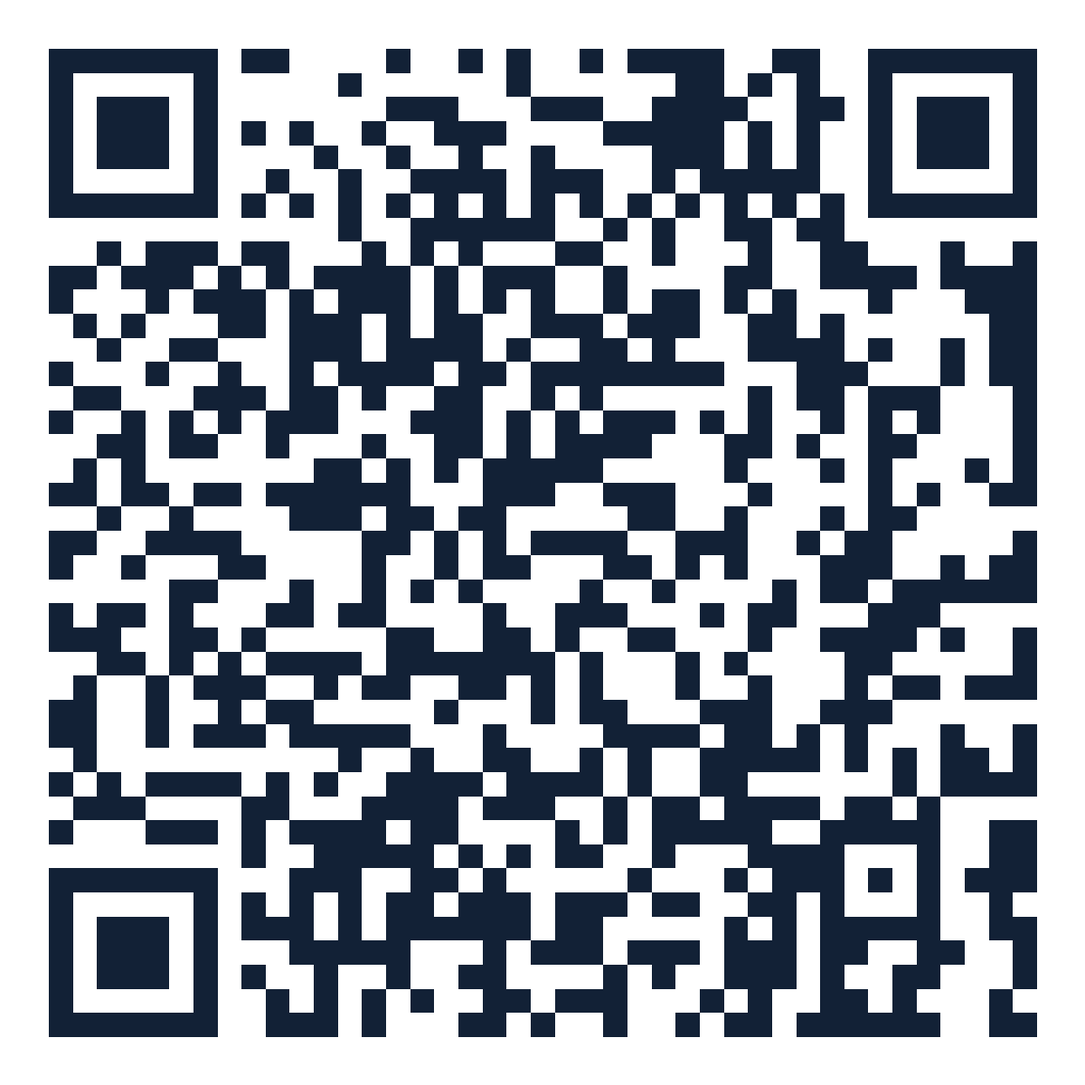
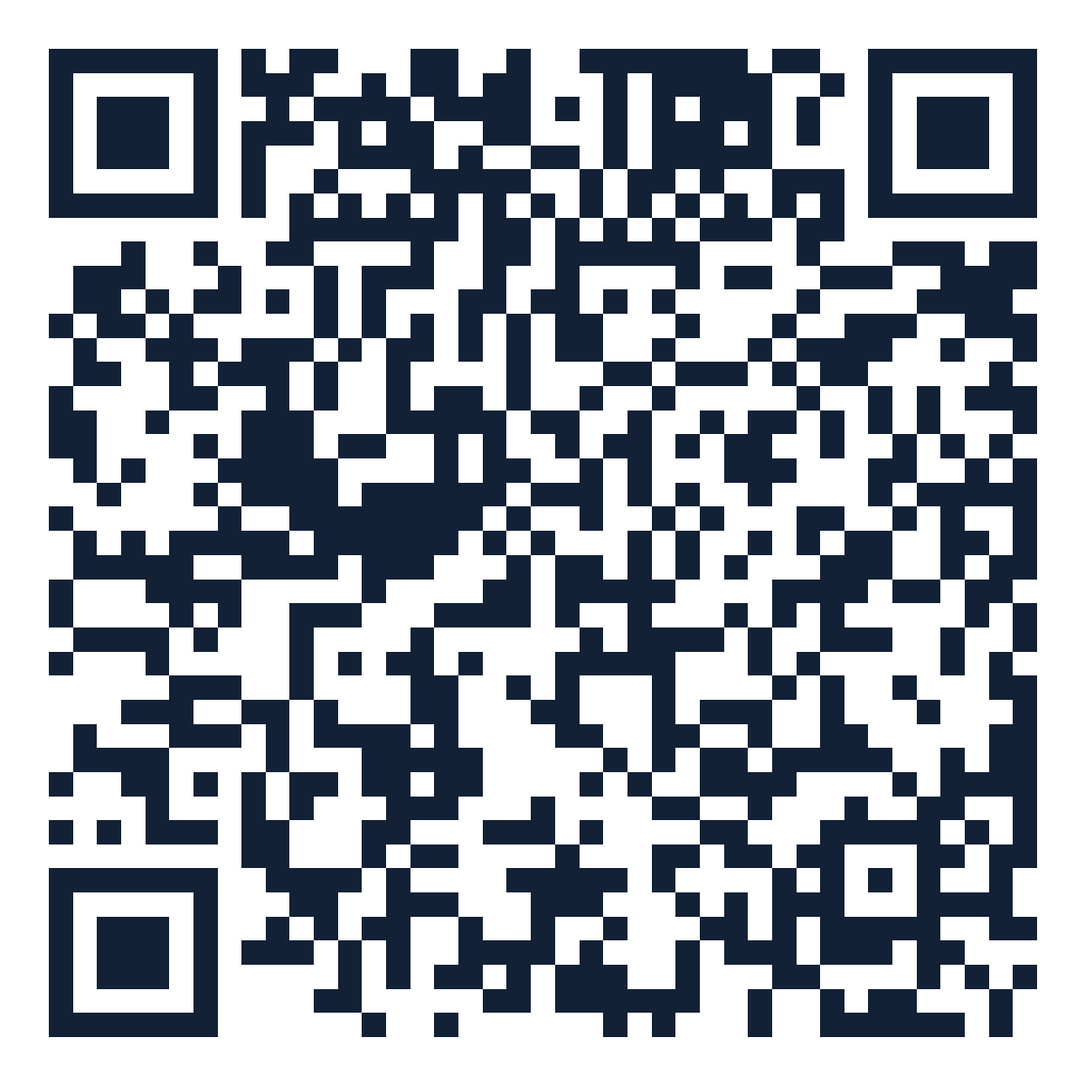
Corner-only build: each corner by its own link, no list, no general menu
A guest at one corner must not see another corner's prices, so the
corners ship as their own site: the root and every non-corner route show
only the logo and the instruction to scan, and the corners list is gone.
QR codes point at libertario-corners.pages.dev.

diff --git a/docs/qr/corners.html b/docs/qr/corners.html
@@ -59,7 +59,7 @@
       <span class="eyebrow">Libertario Coffee Roasters · Carta digital</span>
       <h1>QR de los corners</h1>
     </div>
-    <p class="lead">Un código por corner. Cada uno abre la carta reducida de esa barra en el teléfono del invitado, en español o inglés. Para imprimir, mínimo 3 cm de lado.</p>
+    <p class="lead">Un código por corner. Cada uno abre únicamente la carta de esa barra, con sus precios, en español o inglés. Para imprimir, mínimo 3 cm de lado.</p>
   </header>
 
   <section class="grid" aria-label="Corners">
@@ -69,9 +69,9 @@
           <span class="eyebrow">Seguros Sura · Bogotá</span>
           <h2>Sura</h2>
         </header>
-        <div class="qr"><svg role="img" aria-label="QR" xmlns="http://www.w3.org/2000/svg" viewBox="0 0 45 45" shape-rendering="crispEdges"><path fill="#ffffff" d="M0 0h45v45H0z"/><path stroke="#122136" d="M2 2.5h7m3 0h1m2 0h1m2 0h2m3 0h1m1 0h3m1 0h4m3 0h7M2 3.5h1m5 0h1m1 0h2m3 0h2m2 0h1m1 0h1m4 0h3m1 0h2m1 0h2m1 0h1m5 0h1M2 4.5h1m1 0h3m1 0h1m3 0h1m3 0h1m2 0h1m1 0h3m1 0h1m2 0h1m1 0h1m2 0h1m2 0h1m1 0h3m1 0h1M2 5.5h1m1 0h3m1 0h1m3 0h1m3 0h1m3 0h2m2 0h3m2 0h4m3 0h1m1 0h3m1 0h1M2 6.5h1m1 0h3m1 0h1m2 0h3m2 0h1m1 0h1m1 0h3m1 0h1m2 0h1m1 0h4m3 0h1m1 0h3m1 0h1M2 7.5h1m5 0h1m1 0h1m1 0h2m1 0h2m1 0h3m2 0h1m1 0h4m1 0h1m2 0h2m1 0h1m5 0h1M2 8.5h7m1 0h1m1 0h1m1 0h1m1 0h1m1 0h1m1 0h1m1 0h1m1 0h1m1 0h1m1 0h1m1 0h1m1 0h1m1 0h1m1 0h7M10 9.5h1m3 0h2m1 0h1m1 0h2m1 0h4m1 0h1m3 0h1m2 0h1M6 10.5h4m1 0h1m3 0h3m3 0h1m2 0h1m2 0h2m1 0h2m1 0h2m1 0h2m3 0h1M2 11.5h1m3 0h2m2 0h1m1 0h8m2 0h2m2 0h1m2 0h2m1 0h1m3 0h1m1 0h2m2 0h1M4 12.5h2m2 0h1m1 0h4m1 0h1m2 0h2m1 0h1m1 0h1m3 0h1m1 0h3m2 0h1m2 0h2m3 0h1M3 13.5h4m2 0h1m3 0h4m2 0h1m3 0h1m2 0h1m1 0h1m1 0h6m3 0h1m1 0h1M3 14.5h1m2 0h1m1 0h2m3 0h1m1 0h2m2 0h1m1 0h1m3 0h2m4 0h2m2 0h2M2 15.5h6m1 0h4m6 0h1m1 0h2m1 0h2m1 0h1m2 0h5m2 0h4m1 0h1M2 16.5h2m1 0h1m2 0h2m1 0h5m1 0h2m1 0h5m2 0h1m2 0h1m1 0h1m1 0h3m3 0h3M3 17.5h1m1 0h2m4 0h2m2 0h2m2 0h2m1 0h1m1 0h2m1 0h1m3 0h1m6 0h2M3 18.5h3m2 0h2m4 0h1m1 0h1m1 0h1m4 0h1m3 0h1m1 0h3m1 0h1m3 0h1m1 0h1M2 19.5h3m7 0h4m4 0h1m1 0h1m6 0h2m1 0h1m2 0h4m2 0h2M3 20.5h1m2 0h3m1 0h1m1 0h1m1 0h2m2 0h1m1 0h1m1 0h3m1 0h1m1 0h2m1 0h1m2 0h4m2 0h1m1 0h1M3 21.5h2m1 0h2m1 0h1m3 0h3m1 0h1m1 0h2m2 0h1m3 0h2m2 0h4m2 0h1m1 0h1m2 0h1M2 22.5h1m1 0h2m1 0h6m2 0h2m2 0h7m3 0h1m2 0h1m2 0h1m1 0h3M5 23.5h1m1 0h1m3 0h9m1 0h2m5 0h4m4 0h1m1 0h3m1 0h1M7 24.5h3m1 0h1m1 0h4m2 0h1m2 0h1m1 0h3m1 0h2m1 0h1m7 0h1m2 0h1M3 25.5h1m1 0h3m1 0h1m4 0h1m3 0h2m1 0h1m3 0h1m1 0h1m1 0h5m3 0h1m3 0h1M2 26.5h2m1 0h1m2 0h1m1 0h1m1 0h1m1 0h1m1 0h2m2 0h1m1 0h1m1 0h1m2 0h1m2 0h2m1 0h3m1 0h1m1 0h4M4 27.5h1m1 0h2m2 0h1m6 0h2m1 0h1m1 0h4m3 0h4m1 0h1m1 0h3m1 0h3M3 28.5h3m1 0h2m1 0h2m2 0h2m1 0h1m3 0h6m2 0h1m2 0h1m1 0h3m5 0h1M2 29.5h2m7 0h1m3 0h1m5 0h2m3 0h2m1 0h1m1 0h1m1 0h2m1 0h1m2 0h1m2 0h1M2 30.5h2m3 0h2m1 0h1m5 0h1m1 0h1m1 0h3m1 0h2m2 0h1m1 0h2m2 0h1m6 0h1M2 31.5h1m1 0h3m3 0h1m2 0h1m2 0h1m4 0h2m1 0h2m1 0h2m4 0h1m1 0h1m2 0h2m1 0h2M5 32.5h6m1 0h1m1 0h1m1 0h3m1 0h1m1 0h3m1 0h1m2 0h1m1 0h3m1 0h1m2 0h2m2 0h1M4 33.5h2m1 0h1m1 0h6m4 0h1m7 0h9m2 0h2m2 0h1M2 34.5h2m4 0h4m3 0h2m3 0h2m2 0h5m2 0h1m2 0h6m1 0h1M10 35.5h1m1 0h3m2 0h3m2 0h3m1 0h1m1 0h2m1 0h1m1 0h2m3 0h1m1 0h1m1 0h1M2 36.5h7m1 0h1m1 0h2m2 0h5m2 0h1m1 0h2m1 0h3m1 0h3m1 0h1m1 0h1m3 0h1M2 37.5h1m5 0h1m1 0h1m1 0h1m1 0h4m1 0h1m2 0h2m1 0h3m2 0h1m2 0h2m3 0h2m1 0h2M2 38.5h1m1 0h3m1 0h1m1 0h3m1 0h3m3 0h2m1 0h1m1 0h1m1 0h1m5 0h7m1 0h1M2 39.5h1m1 0h3m1 0h1m6 0h3m1 0h1m3 0h3m3 0h2m1 0h1m4 0h1m4 0h1M2 40.5h1m1 0h3m1 0h1m2 0h2m1 0h4m1 0h1m2 0h2m2 0h1m1 0h3m4 0h1m4 0h3M2 41.5h1m5 0h1m2 0h1m1 0h1m1 0h5m3 0h3m1 0h5m1 0h5m1 0h4M2 42.5h7m2 0h3m4 0h1m1 0h3m2 0h1m5 0h1m2 0h2m1 0h5"/></svg>
+        <div class="qr"><svg role="img" aria-label="QR" xmlns="http://www.w3.org/2000/svg" viewBox="0 0 45 45" shape-rendering="crispEdges"><path fill="#ffffff" d="M0 0h45v45H0z"/><path stroke="#122136" d="M2 2.5h7m1 0h2m1 0h1m1 0h2m4 0h2m2 0h2m4 0h4m1 0h7M2 3.5h1m5 0h1m1 0h5m2 0h1m3 0h1m4 0h1m2 0h1m1 0h1m2 0h1m1 0h1m5 0h1M2 4.5h1m1 0h3m1 0h1m1 0h3m1 0h1m2 0h1m1 0h1m1 0h1m2 0h1m3 0h1m2 0h3m2 0h1m1 0h3m1 0h1M2 5.5h1m1 0h3m1 0h1m2 0h3m3 0h1m1 0h2m2 0h2m1 0h1m2 0h1m6 0h1m1 0h3m1 0h1M2 6.5h1m1 0h3m1 0h1m2 0h2m1 0h1m1 0h1m2 0h3m1 0h1m1 0h1m2 0h1m1 0h5m1 0h1m1 0h3m1 0h1M2 7.5h1m5 0h1m1 0h2m1 0h2m2 0h2m3 0h2m3 0h3m6 0h1m5 0h1M2 8.5h7m1 0h1m1 0h1m1 0h1m1 0h1m1 0h1m1 0h1m1 0h1m1 0h1m1 0h1m1 0h1m1 0h1m1 0h1m1 0h1m1 0h7M10 9.5h1m1 0h1m4 0h1m2 0h2m1 0h2m1 0h2m1 0h1m2 0h3M4 10.5h3m1 0h1m1 0h4m2 0h1m3 0h2m2 0h1m1 0h1m1 0h4m1 0h1m1 0h3m2 0h3M4 11.5h2m1 0h1m5 0h2m2 0h3m2 0h2m1 0h1m1 0h1m2 0h1m1 0h7m1 0h1m1 0h1M3 12.5h1m1 0h1m2 0h1m1 0h1m2 0h1m2 0h7m3 0h1m1 0h2m4 0h1m1 0h1m1 0h1M2 13.5h1m2 0h3m1 0h2m2 0h2m1 0h9m1 0h2m5 0h7m2 0h1M4 14.5h2m2 0h1m4 0h1m5 0h1m2 0h1m3 0h4m1 0h1m1 0h2m1 0h1m2 0h3M4 15.5h1m2 0h1m1 0h4m3 0h2m1 0h3m2 0h1m1 0h1m1 0h4m3 0h1m1 0h2m2 0h2M2 16.5h1m2 0h2m1 0h1m3 0h2m2 0h2m4 0h2m2 0h2m3 0h1m2 0h2m1 0h2m1 0h1M2 17.5h1m6 0h8m1 0h1m2 0h1m1 0h1m1 0h1m1 0h1m2 0h1m5 0h2m1 0h1m2 0h1M4 18.5h6m2 0h1m1 0h1m1 0h3m1 0h3m2 0h3m2 0h2m3 0h1m1 0h1m2 0h1M2 19.5h4m5 0h4m1 0h1m1 0h1m3 0h1m1 0h1m2 0h2m1 0h1m2 0h2m1 0h4m2 0h1M4 20.5h3m1 0h3m1 0h2m2 0h1m3 0h1m2 0h2m1 0h1m2 0h2m1 0h1m1 0h2m2 0h2M4 21.5h4m1 0h1m2 0h1m3 0h2m1 0h1m1 0h1m3 0h6m2 0h2m1 0h1m1 0h2M3 22.5h1m2 0h1m1 0h1m2 0h1m2 0h3m2 0h2m1 0h1m2 0h3m1 0h2m1 0h2m4 0h4M2 23.5h1m2 0h2m4 0h2m1 0h1m2 0h1m2 0h1m2 0h1m1 0h1m2 0h1m1 0h2m1 0h4m1 0h2m1 0h2M2 24.5h3m1 0h4m1 0h2m2 0h3m4 0h1m1 0h6m2 0h1m4 0h3M3 25.5h1m1 0h1m1 0h1m1 0h1m2 0h2m1 0h2m1 0h1m1 0h1m1 0h2m3 0h2m1 0h1m2 0h1m4 0h2m1 0h1M3 26.5h2m3 0h1m1 0h3m1 0h3m1 0h1m3 0h1m4 0h1m2 0h2m7 0h3M6 27.5h2m4 0h1m3 0h2m3 0h1m1 0h1m3 0h2m1 0h1m1 0h2m2 0h4m2 0h1M5 28.5h2m1 0h2m1 0h1m1 0h2m4 0h1m4 0h1m1 0h2m1 0h4m1 0h2M2 29.5h1m2 0h2m2 0h3m1 0h3m2 0h4m1 0h1m5 0h2m1 0h3m2 0h1m1 0h1m2 0h1M3 30.5h4m1 0h1m1 0h1m2 0h1m3 0h1m4 0h1m1 0h3m2 0h3m1 0h1m1 0h1m3 0h2m1 0h1M2 31.5h2m1 0h1m1 0h1m1 0h3m2 0h1m2 0h1m1 0h3m4 0h1m1 0h2m4 0h1m3 0h1m1 0h3M2 32.5h1m1 0h1m1 0h1m1 0h1m2 0h1m1 0h1m1 0h1m3 0h1m3 0h1m1 0h2m1 0h6m1 0h3m1 0h1M2 33.5h1m4 0h1m2 0h1m5 0h1m1 0h5m1 0h2m1 0h3m2 0h6m1 0h1M2 34.5h1m1 0h5m1 0h1m1 0h1m2 0h2m1 0h3m1 0h2m1 0h1m3 0h1m1 0h1m1 0h6m1 0h2M10 35.5h1m2 0h2m2 0h2m1 0h2m1 0h1m1 0h4m1 0h3m1 0h1m3 0h1m2 0h2M2 36.5h7m2 0h4m1 0h2m1 0h2m2 0h1m1 0h1m2 0h2m1 0h1m1 0h2m1 0h1m1 0h3M2 37.5h1m5 0h1m2 0h1m1 0h7m1 0h1m2 0h1m1 0h1m3 0h3m1 0h1m3 0h1m2 0h1M2 38.5h1m1 0h3m1 0h1m1 0h1m2 0h1m1 0h1m1 0h3m3 0h3m1 0h1m6 0h5m1 0h1M2 39.5h1m1 0h3m1 0h1m1 0h2m1 0h1m2 0h1m1 0h5m1 0h3m5 0h1m1 0h2m1 0h1m4 0h1M2 40.5h1m1 0h3m1 0h1m1 0h2m1 0h3m1 0h1m3 0h1m5 0h7m1 0h4m1 0h2M2 41.5h1m5 0h1m10 0h2m7 0h1m3 0h3m1 0h1m1 0h2m1 0h1M2 42.5h7m2 0h1m2 0h2m1 0h1m2 0h2m1 0h1m1 0h1m1 0h3m1 0h1m1 0h1m2 0h3m1 0h1"/></svg>
 </div>
-        <p class="url"><span>libertario-carta.pages.dev/corner/sura</span><button type="button" class="copy" data-copy="https://libertario-carta.pages.dev/corner/sura" aria-label="Copiar enlace de Sura">Copiar</button></p>
+        <p class="url"><span>libertario-corners.pages.dev/corner/sura</span><button type="button" class="copy" data-copy="https://libertario-corners.pages.dev/corner/sura" aria-label="Copiar enlace de Sura">Copiar</button></p>
         <p class="atajo">Atajo: <code>/corner-sura</code></p>
       </article>
 
@@ -80,9 +80,9 @@
           <span class="eyebrow">Mercado Libre · Bogotá</span>
           <h2>Mercado Libre</h2>
         </header>
-        <div class="qr"><svg role="img" aria-label="QR" xmlns="http://www.w3.org/2000/svg" viewBox="0 0 45 45" shape-rendering="crispEdges"><path fill="#ffffff" d="M0 0h45v45H0z"/><path stroke="#122136" d="M2 2.5h7m1 0h3m1 0h1m2 0h2m1 0h2m1 0h2m2 0h2m3 0h1m3 0h7M2 3.5h1m5 0h1m5 0h1m1 0h1m1 0h2m2 0h2m1 0h2m3 0h2m4 0h1m5 0h1M2 4.5h1m1 0h3m1 0h1m1 0h1m2 0h1m1 0h2m1 0h3m2 0h2m1 0h1m1 0h6m2 0h1m1 0h3m1 0h1M2 5.5h1m1 0h3m1 0h1m3 0h3m2 0h1m1 0h5m4 0h3m3 0h1m1 0h1m1 0h3m1 0h1M2 6.5h1m1 0h3m1 0h1m1 0h1m2 0h1m1 0h4m4 0h1m4 0h1m1 0h5m1 0h1m1 0h3m1 0h1M2 7.5h1m5 0h1m3 0h2m4 0h6m1 0h2m3 0h1m5 0h1m5 0h1M2 8.5h7m1 0h1m1 0h1m1 0h1m1 0h1m1 0h1m1 0h1m1 0h1m1 0h1m1 0h1m1 0h1m1 0h1m1 0h1m1 0h1m1 0h7M10 9.5h4m1 0h1m2 0h1m3 0h1m3 0h2m1 0h2m1 0h1m1 0h1M7 10.5h2m13 0h3m4 0h3m4 0h1m1 0h1m1 0h1m1 0h1M2 11.5h1m2 0h3m1 0h1m3 0h2m1 0h2m1 0h1m1 0h4m1 0h2m1 0h1m2 0h2m4 0h1M3 12.5h1m2 0h4m1 0h1m2 0h2m4 0h2m1 0h5m1 0h1m2 0h1m1 0h1m1 0h1M4 13.5h2m4 0h3m2 0h4m1 0h1m3 0h2m2 0h2m3 0h2m1 0h4M2 14.5h2m1 0h1m2 0h2m1 0h2m2 0h3m3 0h1m1 0h2m1 0h1m2 0h2m1 0h1m4 0h1M2 15.5h2m1 0h2m4 0h2m1 0h1m1 0h1m1 0h1m2 0h1m2 0h2m1 0h2m1 0h3m4 0h2m3 0h1M3 16.5h1m1 0h5m2 0h2m1 0h7m2 0h1m1 0h1m1 0h1m2 0h1m2 0h2m1 0h2m1 0h2M2 17.5h3m1 0h2m2 0h1m1 0h6m1 0h1m1 0h4m1 0h1m1 0h2m2 0h1m1 0h2m1 0h1m1 0h3M8 18.5h1m1 0h2m2 0h1m1 0h2m3 0h1m3 0h4m2 0h1m2 0h2m1 0h1m2 0h2M2 19.5h1m6 0h2m2 0h2m2 0h1m3 0h1m1 0h1m1 0h1m1 0h4m1 0h11M2 20.5h1m1 0h1m1 0h4m3 0h6m1 0h1m5 0h1m2 0h1m1 0h3m1 0h5m2 0h1M2 21.5h4m3 0h1m3 0h1m1 0h1m1 0h1m3 0h2m2 0h2m2 0h2m2 0h4m1 0h2m1 0h1M2 22.5h2m3 0h2m2 0h2m2 0h3m1 0h1m3 0h1m8 0h3m2 0h2m1 0h2M3 23.5h5m1 0h6m1 0h2m1 0h1m2 0h1m1 0h1m2 0h3m1 0h1m1 0h1m4 0h1M2 24.5h2m1 0h1m2 0h1m2 0h2m2 0h2m1 0h1m1 0h1m1 0h1m5 0h3m1 0h1m3 0h4M4 25.5h1m4 0h1m1 0h3m3 0h1m2 0h2m1 0h2m1 0h2m5 0h1m1 0h2m1 0h1m3 0h1M2 26.5h1m2 0h1m2 0h2m1 0h1m1 0h2m1 0h1m1 0h3m1 0h2m1 0h1m1 0h1m1 0h1m3 0h2m1 0h1m2 0h2M3 27.5h2m1 0h2m2 0h1m4 0h4m1 0h2m1 0h3m1 0h7m2 0h4m2 0h1M2 28.5h2m2 0h1m1 0h2m1 0h3m1 0h1m1 0h7m5 0h3m2 0h2m1 0h2M3 29.5h1m2 0h2m1 0h2m2 0h5m1 0h3m1 0h1m1 0h1m1 0h2m3 0h2m1 0h8M2 30.5h2m1 0h1m1 0h3m1 0h1m3 0h1m1 0h2m1 0h1m1 0h6m1 0h3m1 0h1m1 0h1m3 0h2M2 31.5h1m2 0h2m2 0h1m1 0h1m3 0h1m1 0h3m1 0h2m1 0h4m6 0h2m2 0h1m1 0h3M2 32.5h7m3 0h1m1 0h4m2 0h1m8 0h1m1 0h1m2 0h2m4 0h1m1 0h1M2 33.5h1m1 0h1m1 0h1m2 0h5m3 0h1m6 0h2m2 0h1m4 0h2m1 0h2m1 0h1m1 0h1M2 34.5h1m1 0h2m2 0h1m4 0h4m4 0h2m3 0h1m2 0h1m1 0h1m1 0h6m1 0h1M10 35.5h3m1 0h1m1 0h1m1 0h1m1 0h1m1 0h2m5 0h3m2 0h1m3 0h3M2 36.5h7m3 0h1m1 0h1m3 0h3m3 0h3m1 0h2m1 0h1m1 0h2m1 0h1m1 0h1M2 37.5h1m5 0h1m1 0h1m3 0h1m1 0h2m1 0h2m2 0h1m2 0h4m1 0h4m3 0h2M2 38.5h1m1 0h3m1 0h1m2 0h1m2 0h2m2 0h3m3 0h1m2 0h5m1 0h7m2 0h1M2 39.5h1m1 0h3m1 0h1m3 0h1m3 0h2m1 0h1m1 0h3m1 0h1m1 0h1m1 0h2m1 0h3m2 0h1m1 0h2m1 0h1M2 40.5h1m1 0h3m1 0h1m2 0h1m1 0h1m1 0h4m1 0h1m1 0h4m2 0h2m1 0h2m2 0h4m1 0h2M2 41.5h1m5 0h1m5 0h2m2 0h1m1 0h1m1 0h1m1 0h1m1 0h2m2 0h1m1 0h2m2 0h1m1 0h2m2 0h1M2 42.5h7m3 0h2m1 0h4m1 0h1m2 0h1m1 0h1m1 0h3m1 0h1m1 0h1m3 0h2"/></svg>
+        <div class="qr"><svg role="img" aria-label="QR" xmlns="http://www.w3.org/2000/svg" viewBox="0 0 45 45" shape-rendering="crispEdges"><path fill="#ffffff" d="M0 0h45v45H0z"/><path stroke="#122136" d="M2 2.5h7m1 0h1m2 0h1m1 0h2m4 0h3m1 0h2m4 0h4m1 0h7M2 3.5h1m5 0h1m1 0h2m1 0h2m1 0h2m3 0h1m1 0h1m2 0h1m2 0h1m1 0h1m2 0h1m1 0h1m5 0h1M2 4.5h1m1 0h3m1 0h1m1 0h2m2 0h4m1 0h3m1 0h1m4 0h1m2 0h3m2 0h1m1 0h3m1 0h1M2 5.5h1m1 0h3m1 0h1m2 0h3m1 0h3m5 0h1m2 0h1m2 0h1m6 0h1m1 0h3m1 0h1M2 6.5h1m1 0h3m1 0h1m2 0h1m2 0h1m1 0h1m2 0h1m1 0h1m1 0h1m1 0h1m2 0h1m1 0h5m1 0h1m1 0h3m1 0h1M2 7.5h1m5 0h1m1 0h2m1 0h2m2 0h2m3 0h2m3 0h3m6 0h1m5 0h1M2 8.5h7m1 0h1m1 0h1m1 0h1m1 0h1m1 0h1m1 0h1m1 0h1m1 0h1m1 0h1m1 0h1m1 0h1m1 0h1m1 0h1m1 0h7M10 9.5h1m1 0h1m4 0h1m2 0h2m1 0h2m1 0h2m1 0h1m2 0h3M4 10.5h3m1 0h1m1 0h4m2 0h1m3 0h2m2 0h1m1 0h1m1 0h4m1 0h1m1 0h3m2 0h3M4 11.5h2m1 0h1m5 0h2m2 0h3m2 0h2m1 0h1m1 0h1m2 0h1m1 0h7m1 0h3M2 12.5h1m2 0h1m2 0h1m1 0h1m2 0h1m2 0h7m3 0h1m1 0h2m4 0h1m1 0h1m1 0h1M2 13.5h1m2 0h2m2 0h2m2 0h2m1 0h9m1 0h2m5 0h7M3 14.5h6m4 0h2m3 0h2m6 0h4m1 0h1m1 0h2m1 0h1m2 0h2m1 0h1M3 15.5h2m2 0h1m1 0h4m3 0h5m3 0h1m3 0h4m3 0h1m1 0h2m2 0h2M2 16.5h1m2 0h2m1 0h1m3 0h3m1 0h3m4 0h1m3 0h1m3 0h1m2 0h2m1 0h2m1 0h1M2 17.5h1m6 0h4m2 0h2m1 0h1m3 0h2m2 0h2m2 0h1m5 0h2m1 0h1m2 0h1M4 18.5h6m2 0h3m1 0h3m1 0h3m2 0h3m2 0h2m3 0h1m1 0h1m2 0h1M2 19.5h4m5 0h4m1 0h1m1 0h1m3 0h3m2 0h2m1 0h1m2 0h2m1 0h4m2 0h1M4 20.5h3m1 0h6m2 0h1m2 0h2m2 0h1m2 0h1m1 0h3m1 0h1m1 0h2m2 0h2M4 21.5h4m1 0h1m2 0h1m3 0h2m2 0h2m2 0h3m2 0h2m2 0h2m1 0h1m1 0h2M3 22.5h1m2 0h1m1 0h1m2 0h1m2 0h2m3 0h2m1 0h1m2 0h6m1 0h2m4 0h4M2 23.5h1m1 0h3m2 0h3m2 0h1m1 0h2m5 0h3m4 0h2m1 0h4m1 0h2m1 0h2M2 24.5h2m1 0h5m1 0h2m2 0h3m4 0h1m1 0h6m2 0h1m4 0h3M3 25.5h1m1 0h1m1 0h1m1 0h2m1 0h2m1 0h2m1 0h1m1 0h1m1 0h2m3 0h2m1 0h1m2 0h1m5 0h1m1 0h1M3 26.5h1m4 0h1m1 0h3m1 0h3m1 0h1m3 0h1m4 0h1m2 0h2m8 0h2M2 27.5h1m4 0h1m4 0h1m3 0h2m3 0h1m1 0h1m3 0h2m1 0h1m1 0h2m2 0h4m1 0h2M5 28.5h1m1 0h3m1 0h1m1 0h2m4 0h1m4 0h1m1 0h2m1 0h4m1 0h2M2 29.5h2m1 0h1m3 0h3m1 0h3m2 0h4m1 0h1m5 0h2m1 0h3m2 0h1m1 0h1m2 0h1M3 30.5h4m1 0h1m1 0h1m2 0h1m3 0h1m6 0h3m2 0h3m1 0h1m1 0h1m3 0h2m1 0h1M2 31.5h1m2 0h1m1 0h1m1 0h3m5 0h4m1 0h1m5 0h2m4 0h1m3 0h1m1 0h3M2 32.5h1m1 0h1m1 0h1m1 0h1m2 0h1m2 0h2m2 0h2m1 0h3m2 0h1m1 0h6m1 0h3m1 0h1M2 33.5h1m4 0h1m2 0h1m3 0h1m1 0h5m1 0h1m1 0h1m2 0h3m2 0h6m1 0h1M2 34.5h1m1 0h5m1 0h1m1 0h2m1 0h9m5 0h1m1 0h1m1 0h6m1 0h2M10 35.5h2m1 0h3m1 0h2m1 0h2m3 0h2m1 0h1m1 0h3m1 0h1m3 0h1m2 0h2M2 36.5h7m4 0h5m1 0h2m3 0h2m3 0h1m1 0h1m1 0h2m1 0h1m1 0h3M2 37.5h1m5 0h1m2 0h4m2 0h3m1 0h1m1 0h1m2 0h2m2 0h3m1 0h1m3 0h1m2 0h1M2 38.5h1m1 0h3m1 0h1m1 0h4m1 0h5m4 0h2m8 0h5m1 0h1M2 39.5h1m1 0h3m1 0h1m1 0h4m2 0h1m1 0h5m2 0h2m5 0h1m1 0h2m1 0h1m1 0h2m1 0h1M2 40.5h1m1 0h3m1 0h1m1 0h2m1 0h3m1 0h1m3 0h1m5 0h7m1 0h4m2 0h1M2 41.5h1m5 0h1m10 0h2m7 0h1m3 0h3m1 0h1m1 0h2m1 0h1M2 42.5h7m2 0h1m2 0h2m1 0h1m2 0h2m1 0h1m1 0h1m1 0h3m1 0h1m1 0h1m2 0h3m1 0h1"/></svg>
 </div>
-        <p class="url"><span>libertario-carta.pages.dev/corner/meli</span><button type="button" class="copy" data-copy="https://libertario-carta.pages.dev/corner/meli" aria-label="Copiar enlace de Mercado Libre">Copiar</button></p>
+        <p class="url"><span>libertario-corners.pages.dev/corner/meli</span><button type="button" class="copy" data-copy="https://libertario-corners.pages.dev/corner/meli" aria-label="Copiar enlace de Mercado Libre">Copiar</button></p>
         <p class="atajo">Atajo: <code>/corner-meli</code></p>
       </article>
 
@@ -91,28 +91,18 @@
           <span class="eyebrow">Bavaria · Bogotá</span>
           <h2>Bavaria</h2>
         </header>
-        <div class="qr"><svg role="img" aria-label="QR" xmlns="http://www.w3.org/2000/svg" viewBox="0 0 45 45" shape-rendering="crispEdges"><path fill="#ffffff" d="M0 0h45v45H0z"/><path stroke="#122136" d="M2 2.5h7m1 0h2m4 0h1m2 0h1m1 0h1m2 0h1m1 0h4m2 0h2m2 0h7M2 3.5h1m5 0h1m5 0h1m6 0h1m6 0h2m1 0h1m1 0h1m2 0h1m5 0h1M2 4.5h1m1 0h3m1 0h1m7 0h3m3 0h3m2 0h4m2 0h2m1 0h1m1 0h3m1 0h1M2 5.5h1m1 0h3m1 0h1m1 0h1m1 0h1m2 0h1m2 0h3m4 0h5m1 0h1m1 0h1m2 0h1m1 0h3m1 0h1M2 6.5h1m1 0h3m1 0h1m4 0h1m2 0h1m2 0h1m2 0h1m4 0h3m1 0h1m1 0h1m2 0h1m1 0h3m1 0h1M2 7.5h1m5 0h1m2 0h1m2 0h1m2 0h4m1 0h3m2 0h1m1 0h5m2 0h1m5 0h1M2 8.5h7m1 0h1m1 0h1m1 0h1m1 0h1m1 0h1m1 0h1m1 0h1m1 0h1m1 0h1m1 0h1m1 0h1m1 0h1m1 0h1m1 0h7M14 9.5h1m2 0h6m2 0h1m1 0h1m2 0h2m1 0h2M4 10.5h1m1 0h3m1 0h2m3 0h1m1 0h1m1 0h1m3 0h2m2 0h1m3 0h1m2 0h2m3 0h1m2 0h1M2 11.5h2m1 0h3m1 0h1m1 0h1m1 0h4m1 0h1m1 0h3m2 0h1m4 0h2m2 0h4m1 0h4M2 12.5h1m3 0h1m1 0h3m1 0h1m1 0h3m1 0h1m1 0h1m1 0h1m2 0h1m1 0h2m1 0h1m1 0h1m3 0h1m3 0h3M3 13.5h1m1 0h1m3 0h2m1 0h3m1 0h1m1 0h2m2 0h3m1 0h3m2 0h2m1 0h1m6 0h2M4 14.5h1m2 0h2m3 0h3m1 0h4m1 0h1m2 0h2m1 0h1m3 0h4m1 0h1m2 0h1m1 0h2M2 15.5h1m3 0h1m2 0h1m2 0h1m1 0h4m1 0h2m1 0h8m3 0h3m3 0h1m1 0h2M3 16.5h2m3 0h3m1 0h2m1 0h1m2 0h2m2 0h1m1 0h1m6 0h1m1 0h2m1 0h3m3 0h1M2 17.5h1m2 0h1m1 0h1m1 0h1m1 0h3m3 0h3m1 0h1m1 0h1m1 0h3m1 0h1m1 0h1m2 0h1m1 0h1m1 0h1m3 0h1M4 18.5h2m1 0h2m2 0h1m3 0h1m2 0h2m1 0h1m1 0h4m3 0h2m1 0h1m2 0h2m4 0h1M3 19.5h1m1 0h1m7 0h2m1 0h1m1 0h1m1 0h5m5 0h1m3 0h1m1 0h1m3 0h1m1 0h1M2 20.5h2m1 0h2m1 0h2m1 0h6m3 0h3m2 0h3m3 0h1m4 0h1m1 0h1m2 0h2M4 21.5h1m2 0h1m4 0h3m1 0h2m1 0h2m5 0h2m2 0h1m3 0h1m1 0h2M2 22.5h2m2 0h4m5 0h2m1 0h1m1 0h1m1 0h4m2 0h3m2 0h1m1 0h2m5 0h1M2 23.5h1m2 0h1m3 0h2m4 0h1m2 0h1m1 0h2m3 0h2m1 0h1m1 0h1m3 0h3m2 0h1m1 0h2M7 24.5h2m3 0h1m2 0h1m1 0h1m1 0h1m4 0h1m2 0h1m4 0h1m1 0h2m1 0h6M2 25.5h1m1 0h2m1 0h1m3 0h2m1 0h2m4 0h1m2 0h3m3 0h1m1 0h2m3 0h3M2 26.5h3m2 0h2m1 0h1m5 0h2m2 0h2m1 0h1m2 0h2m3 0h1m2 0h4m1 0h1m2 0h1M4 27.5h2m1 0h1m1 0h1m1 0h4m1 0h7m1 0h1m3 0h1m1 0h1m4 0h2m5 0h1M3 28.5h1m2 0h1m1 0h3m2 0h1m1 0h2m2 0h2m1 0h1m1 0h1m3 0h1m2 0h1m3 0h1m1 0h2m1 0h3M2 29.5h2m2 0h1m2 0h1m1 0h2m5 0h1m3 0h1m1 0h2m3 0h3m2 0h3M2 30.5h2m2 0h1m1 0h3m1 0h5m3 0h1m4 0h4m1 0h2m1 0h1m1 0h1m3 0h1m2 0h1M3 31.5h1m10 0h1m2 0h1m2 0h2m2 0h1m1 0h1m2 0h5m1 0h1m1 0h1m1 0h2m1 0h1M2 32.5h1m1 0h1m1 0h4m1 0h1m1 0h1m2 0h4m1 0h4m1 0h1m2 0h2m6 0h1m1 0h4M3 33.5h3m4 0h2m3 0h4m1 0h3m2 0h1m1 0h2m1 0h4m1 0h2m1 0h1M2 34.5h1m3 0h3m1 0h1m1 0h4m1 0h2m4 0h1m1 0h1m1 0h5m2 0h5m2 0h2M10 35.5h1m2 0h5m1 0h1m1 0h1m1 0h2m2 0h1m3 0h4m3 0h1m2 0h2M2 36.5h7m3 0h3m2 0h2m1 0h1m5 0h1m3 0h1m1 0h3m1 0h1m1 0h1m1 0h3M2 37.5h1m5 0h1m1 0h1m1 0h1m1 0h1m1 0h2m1 0h3m1 0h3m1 0h2m2 0h2m1 0h1m3 0h1m2 0h1M2 38.5h1m1 0h3m1 0h1m1 0h3m1 0h1m1 0h6m1 0h2m5 0h1m1 0h1m1 0h5m2 0h2M2 39.5h1m1 0h3m1 0h1m3 0h5m3 0h1m1 0h3m1 0h3m1 0h3m1 0h2m2 0h2m2 0h1M2 40.5h1m1 0h3m1 0h1m1 0h1m2 0h1m2 0h1m2 0h2m4 0h1m1 0h1m2 0h3m1 0h1m2 0h2m3 0h1M2 41.5h1m5 0h1m2 0h1m1 0h1m1 0h1m1 0h1m2 0h2m1 0h3m3 0h1m1 0h1m2 0h2m1 0h1m3 0h1M2 42.5h7m2 0h3m1 0h1m3 0h2m1 0h1m2 0h1m2 0h1m1 0h2m1 0h6m2 0h2"/></svg>
+        <div class="qr"><svg role="img" aria-label="QR" xmlns="http://www.w3.org/2000/svg" viewBox="0 0 45 45" shape-rendering="crispEdges"><path fill="#ffffff" d="M0 0h45v45H0z"/><path stroke="#122136" d="M2 2.5h7m1 0h1m1 0h2m3 0h2m2 0h1m2 0h7m1 0h2m2 0h7M2 3.5h1m5 0h1m1 0h3m2 0h1m1 0h2m1 0h2m3 0h1m1 0h5m2 0h1m1 0h1m5 0h1M2 4.5h1m1 0h3m1 0h1m2 0h1m1 0h4m1 0h4m1 0h1m1 0h1m1 0h1m1 0h3m1 0h1m2 0h1m1 0h3m1 0h1M2 5.5h1m1 0h3m1 0h1m1 0h3m1 0h1m1 0h2m2 0h2m3 0h1m1 0h3m1 0h1m1 0h1m2 0h1m1 0h3m1 0h1M2 6.5h1m1 0h3m1 0h1m1 0h1m3 0h4m1 0h1m2 0h2m1 0h1m1 0h5m4 0h1m1 0h3m1 0h1M2 7.5h1m5 0h1m1 0h1m2 0h1m3 0h5m2 0h1m1 0h2m1 0h1m2 0h3m1 0h1m5 0h1M2 8.5h7m1 0h1m1 0h1m1 0h1m1 0h1m1 0h1m1 0h1m1 0h1m1 0h1m1 0h1m1 0h1m1 0h1m1 0h1m1 0h1m1 0h7M12 9.5h7m1 0h2m1 0h1m1 0h1m1 0h1m1 0h3m1 0h2M5 10.5h1m2 0h1m2 0h2m4 0h1m2 0h2m1 0h6m4 0h1m3 0h3m1 0h2M3 11.5h3m3 0h1m3 0h1m1 0h3m2 0h1m2 0h1m4 0h1m1 0h2m2 0h3m2 0h4M3 12.5h2m1 0h1m1 0h2m1 0h1m1 0h1m1 0h1m3 0h2m1 0h2m1 0h1m1 0h1m5 0h1m4 0h4M2 13.5h1m1 0h2m1 0h1m5 0h1m1 0h1m1 0h1m1 0h1m1 0h1m1 0h2m3 0h1m3 0h1m2 0h3m2 0h3M3 14.5h1m2 0h3m1 0h3m1 0h1m1 0h2m1 0h1m1 0h1m1 0h2m2 0h1m3 0h1m1 0h4m2 0h1m2 0h1M3 15.5h2m2 0h1m1 0h3m1 0h1m2 0h1m4 0h1m3 0h2m1 0h3m1 0h1m1 0h2m5 0h1M2 16.5h1m4 0h2m2 0h1m1 0h1m2 0h1m1 0h2m1 0h1m2 0h1m2 0h1m5 0h1m2 0h1m1 0h1m1 0h3M2 17.5h2m2 0h1m3 0h3m3 0h5m1 0h2m2 0h1m2 0h1m1 0h2m1 0h1m1 0h1m1 0h1m3 0h1M2 18.5h2m4 0h1m1 0h3m1 0h2m2 0h1m1 0h1m2 0h1m1 0h2m1 0h1m1 0h2m2 0h1m2 0h1m1 0h1m1 0h1M3 19.5h1m1 0h1m3 0h5m4 0h1m1 0h2m2 0h1m1 0h1m3 0h3m3 0h2m2 0h1m1 0h1M4 20.5h1m3 0h1m1 0h4m1 0h6m1 0h3m1 0h1m1 0h1m2 0h1m4 0h1m1 0h5M2 21.5h1m6 0h1m2 0h8m1 0h1m2 0h1m2 0h1m1 0h1m3 0h2m2 0h1m1 0h1m2 0h1M3 22.5h1m1 0h1m1 0h5m1 0h6m1 0h1m1 0h1m3 0h1m1 0h1m2 0h1m1 0h1m1 0h2m2 0h2m1 0h1M3 23.5h5m2 0h4m1 0h3m3 0h1m1 0h2m1 0h1m1 0h1m1 0h1m3 0h3m2 0h1m1 0h2M2 24.5h1m3 0h4m5 0h1m4 0h2m1 0h5m4 0h4m1 0h2m1 0h2M2 25.5h1m4 0h1m1 0h1m2 0h3m3 0h4m1 0h1m2 0h1m3 0h1m1 0h1m1 0h1m5 0h1m1 0h1M3 26.5h4m1 0h1m3 0h1m4 0h1m6 0h1m1 0h4m1 0h1m2 0h3m2 0h1m2 0h1M2 27.5h1m3 0h1m5 0h1m1 0h1m1 0h2m1 0h1m3 0h5m3 0h1m1 0h1m5 0h1m1 0h1M7 28.5h3m2 0h1m4 0h2m2 0h1m1 0h1m3 0h1m4 0h1m1 0h1m2 0h1m3 0h2M5 29.5h3m2 0h2m1 0h1m3 0h2m3 0h2m3 0h1m1 0h3m2 0h1m3 0h1m3 0h1M3 30.5h1m3 0h3m1 0h1m1 0h4m1 0h1m4 0h2m2 0h2m2 0h1m2 0h2m5 0h2M3 31.5h4m4 0h1m3 0h5m5 0h1m1 0h1m1 0h2m1 0h5m2 0h1m1 0h2M2 32.5h1m2 0h2m1 0h1m1 0h1m1 0h2m1 0h2m1 0h2m4 0h1m1 0h1m2 0h4m4 0h1m1 0h4M6 33.5h1m3 0h1m1 0h1m3 0h3m3 0h1m4 0h2m2 0h1m3 0h1m2 0h2m2 0h1M2 34.5h1m1 0h1m1 0h3m1 0h2m3 0h2m3 0h3m1 0h1m4 0h2m3 0h5m1 0h1m1 0h1M10 35.5h2m3 0h1m1 0h2m4 0h1m3 0h2m1 0h2m1 0h2m3 0h2m1 0h2M2 36.5h7m2 0h4m1 0h1m4 0h5m1 0h1m4 0h1m1 0h1m1 0h1m1 0h1m2 0h1M2 37.5h1m5 0h1m3 0h2m2 0h3m3 0h3m3 0h1m1 0h1m1 0h3m3 0h4M2 38.5h1m1 0h3m1 0h1m2 0h1m1 0h1m1 0h2m2 0h1m2 0h1m2 0h1m3 0h2m1 0h1m1 0h5m2 0h2M2 39.5h1m1 0h3m1 0h1m1 0h3m1 0h1m1 0h1m2 0h4m1 0h1m3 0h1m1 0h3m1 0h3m1 0h2M2 40.5h1m1 0h3m1 0h1m5 0h1m1 0h1m1 0h2m1 0h1m1 0h3m2 0h1m3 0h2m4 0h1m1 0h1m1 0h1M2 41.5h1m5 0h1m4 0h2m5 0h2m1 0h6m2 0h1m2 0h1m1 0h2m3 0h1M2 42.5h7m6 0h1m2 0h1m6 0h1m1 0h1m3 0h1m2 0h6m1 0h1"/></svg>
 </div>
-        <p class="url"><span>libertario-carta.pages.dev/corner/bavaria</span><button type="button" class="copy" data-copy="https://libertario-carta.pages.dev/corner/bavaria" aria-label="Copiar enlace de Bavaria">Copiar</button></p>
+        <p class="url"><span>libertario-corners.pages.dev/corner/bavaria</span><button type="button" class="copy" data-copy="https://libertario-corners.pages.dev/corner/bavaria" aria-label="Copiar enlace de Bavaria">Copiar</button></p>
         <p class="atajo">Atajo: <code>/corner-bavaria</code></p>
       </article>
   </section>
 
-  <section class="all">
-    <div>
-      <span class="eyebrow">Todos</span>
-      <h2>Lista de corners</h2>
-      <p>Abre la lista completa, con un acceso a la carta de cada corner. Sirve para recepción o para el equipo.</p>
-      <p style="margin-top:8px"><code>libertario-carta.pages.dev/corners</code></p>
-    </div>
-    <div class="qr"><svg role="img" aria-label="QR" xmlns="http://www.w3.org/2000/svg" viewBox="0 0 41 41" shape-rendering="crispEdges"><path fill="#ffffff" d="M0 0h41v41H0z"/><path stroke="#122136" d="M2 2.5h7m1 0h5m1 0h1m1 0h1m1 0h1m4 0h4m1 0h1m1 0h7M2 3.5h1m5 0h1m2 0h1m1 0h1m1 0h4m6 0h2m1 0h1m1 0h1m1 0h1m5 0h1M2 4.5h1m1 0h3m1 0h1m1 0h2m1 0h1m3 0h1m2 0h1m1 0h5m1 0h1m1 0h1m1 0h1m1 0h3m1 0h1M2 5.5h1m1 0h3m1 0h1m3 0h1m1 0h1m2 0h1m1 0h1m1 0h5m1 0h1m1 0h2m1 0h1m1 0h3m1 0h1M2 6.5h1m1 0h3m1 0h1m1 0h2m6 0h1m1 0h1m1 0h1m1 0h1m3 0h1m3 0h1m1 0h3m1 0h1M2 7.5h1m5 0h1m3 0h1m3 0h6m2 0h1m2 0h1m2 0h1m1 0h1m5 0h1M2 8.5h7m1 0h1m1 0h1m1 0h1m1 0h1m1 0h1m1 0h1m1 0h1m1 0h1m1 0h1m1 0h1m1 0h1m1 0h7M10 9.5h1m2 0h1m2 0h4m3 0h1m2 0h1m2 0h2M7 10.5h2m2 0h1m2 0h1m1 0h1m2 0h3m1 0h6m1 0h1m1 0h1m1 0h1m1 0h1m1 0h1M5 11.5h2m2 0h3m1 0h2m1 0h5m1 0h2m1 0h3m1 0h1m1 0h1m1 0h5M3 12.5h3m1 0h3m3 0h1m4 0h1m1 0h1m2 0h2m2 0h4m1 0h7M3 13.5h2m1 0h2m1 0h4m2 0h1m1 0h1m2 0h1m1 0h3m1 0h1m1 0h1m1 0h1m1 0h3M2 14.5h1m4 0h4m2 0h1m3 0h2m1 0h3m3 0h1m2 0h2m1 0h1m2 0h1m1 0h2M2 15.5h3m2 0h1m3 0h1m1 0h4m1 0h3m3 0h2m1 0h1m1 0h3m1 0h1m2 0h1M2 16.5h1m3 0h3m2 0h1m1 0h1m3 0h1m3 0h3m2 0h1m1 0h3m1 0h1m1 0h2m1 0h2M2 17.5h1m1 0h1m2 0h1m2 0h2m2 0h2m2 0h2m2 0h1m1 0h1m1 0h1m2 0h1m1 0h3m1 0h2M4 18.5h1m2 0h4m1 0h3m3 0h1m4 0h3m1 0h3m1 0h2m1 0h1m1 0h1m1 0h1M3 19.5h1m1 0h3m3 0h2m1 0h1m1 0h2m1 0h6m1 0h1m2 0h3m1 0h1m1 0h1M6 20.5h1m1 0h1m2 0h1m1 0h1m3 0h1m1 0h2m2 0h1m4 0h2m1 0h4m1 0h1m1 0h1M2 21.5h3m4 0h1m1 0h1m5 0h4m2 0h4m1 0h1m3 0h2m1 0h1M4 22.5h8m1 0h2m1 0h1m6 0h1m1 0h3m3 0h4m1 0h1M3 23.5h1m2 0h1m2 0h1m2 0h1m3 0h4m1 0h2m3 0h1m1 0h3m2 0h5M2 24.5h1m3 0h4m1 0h1m1 0h1m1 0h3m1 0h3m1 0h1m1 0h3m1 0h1m2 0h1m2 0h1m1 0h2M4 25.5h2m1 0h1m4 0h1m2 0h1m1 0h1m1 0h1m3 0h2m1 0h1m1 0h2m3 0h1m1 0h1m1 0h2M2 26.5h4m1 0h2m3 0h2m1 0h2m1 0h1m1 0h2m1 0h1m3 0h2m1 0h1m1 0h2m1 0h1m2 0h1M2 27.5h4m9 0h1m3 0h1m2 0h2m2 0h2m1 0h2m2 0h1m1 0h3M2 28.5h1m1 0h3m1 0h1m1 0h1m1 0h2m4 0h3m1 0h1m5 0h2m2 0h3m1 0h3M2 29.5h1m1 0h2m5 0h3m5 0h1m1 0h4m1 0h1m1 0h2m1 0h1m2 0h5M2 30.5h1m1 0h1m3 0h2m3 0h1m3 0h1m2 0h1m3 0h1m1 0h3m1 0h7m1 0h1M10 31.5h1m3 0h1m2 0h2m1 0h1m3 0h2m4 0h1m3 0h2M2 32.5h7m4 0h2m1 0h4m3 0h4m1 0h1m1 0h1m1 0h1m1 0h3m1 0h1M2 33.5h1m5 0h1m1 0h1m1 0h1m4 0h1m1 0h1m1 0h2m5 0h3m3 0h2m1 0h2M2 34.5h1m1 0h3m1 0h1m2 0h2m3 0h1m4 0h4m1 0h9m1 0h1M2 35.5h1m1 0h3m1 0h1m4 0h1m4 0h2m1 0h4m2 0h4m1 0h1m3 0h1M2 36.5h1m1 0h3m1 0h1m2 0h1m1 0h3m1 0h1m3 0h2m2 0h5m1 0h1m3 0h2m1 0h1M2 37.5h1m5 0h1m6 0h1m3 0h2m2 0h3m4 0h1m1 0h2m1 0h1m2 0h1M2 38.5h7m2 0h1m1 0h2m1 0h1m1 0h2m1 0h1m1 0h2m1 0h1m3 0h2m1 0h2m3 0h1"/></svg>
-</div>
-  </section>
 
   <section class="notes">
-    <strong>Estado</strong>
+    <strong>Cómo funciona</strong>
     <ul>
-      <li>Las cartas de los corners están en la rama <code>corners</code> y aún no en producción: los códigos ya apuntan a la URL final y empezarán a funcionar al hacer merge a <code>main</code>. Mientras tanto, abren la carta general.</li>
+      <li>Los corners viven en un sitio aparte (<code>libertario-corners.pages.dev</code>), separado de la carta general. Cada QR abre solo la carta de su corner; no existe ninguna página que liste los corners ni muestre la carta general, así que desde un corner no se pueden ver los precios de otro.</li>
       <li>Cada carta trae los productos y precios de la hoja "Menús corners" de operaciones (octubre 2026). Todo con el blend PAZ; la leche vegetal es de almendra y cuesta $4.000 en Sura y $2.000 en Mercado Libre y Bavaria.</li>
       <li>Mercado Libre pidió bajar 14 precios; esa lista está guardada aparte y no se aplica hasta que operaciones la apruebe.</li>
       <li>Para agregar o editar un corner: <code>web/src/core/corners.ts</code>.</li>

diff --git a/web/src/app.tsx b/web/src/app.tsx
@@ -5,16 +5,16 @@ import { Navigate, Route, Routes, useLocation } from "react-router";
 import { productionBlocked } from "@/src/data/program";
 
 import { cornerIdFromPath } from "./core/corners";
-import { menuOnly } from "./core/mode";
+import { cornerOnly, menuOnly } from "./core/mode";
 import { useCopy } from "./i18n";
 import { Celebrate } from "./motion/celebrate";
-import { CornersScreen } from "./screens/corners";
 import { Home } from "./screens/home";
 import { ItemScreen } from "./screens/item";
 import { Landing } from "./screens/landing";
 import { MenuScreen } from "./screens/menu";
 import { Opening } from "./screens/opening";
 import { OrderScreen } from "./screens/order";
+import { ScanScreen } from "./screens/scan";
 import { SettingsScreen } from "./screens/settings";
 import { SignupScreen } from "./screens/signup";
 import { WalletScreen } from "./screens/wallet";
@@ -27,7 +27,9 @@ import { Toast } from "./ui/toast";
 function Fallback() {
   const location = useLocation();
   const id = cornerIdFromPath(location.pathname);
-  return <Navigate to={id ? { pathname: `/corner/${id}`, search: location.search } : "/"} replace />;
+  if (id) return <Navigate to={{ pathname: `/corner/${id}`, search: location.search }} replace />;
+  if (cornerOnly) return location.pathname === "/" ? <ScanScreen /> : <Navigate to="/" replace />;
+  return <Navigate to="/" replace />;
 }
 
 function RequireAccount({ children }: { children: React.ReactElement }) {
@@ -53,6 +55,22 @@ export function App() {
 
   const tabbed = !menuOnly && ["/home", "/menu", "/table"].some((path) => location.pathname.startsWith(path)) && !location.pathname.startsWith("/corner");
 
+  if (cornerOnly) {
+    return (
+      <>
+        <LensFilter />
+        <AnimatePresence mode="wait" initial={false}>
+          <Routes location={location} key={location.pathname.split("/")[1] ?? ""}>
+            <Route path="/corner/:corner" element={<MenuScreen />} />
+            <Route path="/corner/:corner/item/:id" element={<ItemScreen />} />
+            <Route path="*" element={<Fallback />} />
+          </Routes>
+        </AnimatePresence>
+        <Toast note={note} onDismiss={dismissNote} />
+      </>
+    );
+  }
+
   if (menuOnly) {
     return (
       <>
@@ -62,7 +80,6 @@ export function App() {
             <Route path="/" element={<MenuScreen />} />
             <Route path="/menu" element={<Navigate to={{ pathname: "/", search: location.search }} replace />} />
             <Route path="/item/:id" element={<ItemScreen />} />
-            <Route path="/corners" element={<CornersScreen />} />
             <Route path="/corner/:corner" element={<MenuScreen />} />
             <Route path="/corner/:corner/item/:id" element={<ItemScreen />} />
             <Route path="*" element={<Fallback />} />

diff --git a/web/src/screens/scan.tsx b/web/src/screens/scan.tsx
@@ -1,0 +1,23 @@
+import { BRAND, CLIPS } from "../core/photos";
+import { useCopy } from "../i18n";
+import { LivingPhoto } from "../motion/living-photo";
+import { Screen } from "../ui/screen";
+
+/** What the root of the corners build shows: no menu, just the logo and the instruction to scan. */
+export function ScanScreen() {
+  const copy = useCopy();
+  return (
+    <Screen dark testId="scan">
+      <LivingPhoto photo={CLIPS.roast!} radius={0} style={{ position: "absolute", inset: 0 }} interactive={false} drift={false}>
+        <div style={{ position: "absolute", inset: 0, background: "radial-gradient(80% 60% at 50% 45%, rgba(27,22,18,0.3), rgba(27,22,18,0.9))" }} />
+      </LivingPhoto>
+      <div style={{ position: "relative", flex: 1, display: "flex", flexDirection: "column", alignItems: "center", justifyContent: "center", textAlign: "center", padding: "calc(var(--sat) + 24px) 28px calc(var(--sab) + 28px)", color: "#fff", gap: 14 }}>
+        <img src={BRAND.logoWhite} alt={copy.brand} style={{ width: "min(70%, 300px)", height: "auto", filter: "drop-shadow(0 8px 24px rgba(0,0,0,0.5))" }} />
+        <div style={{ width: 120, height: 1, background: "rgba(255,255,255,0.6)", margin: "8px 0" }} />
+        <div className="kicker" style={{ color: "rgba(255,255,255,0.7)" }}>{copy.corners.kicker}</div>
+        <h1 className="serif" style={{ fontSize: 30, margin: 0, lineHeight: 1.1, maxWidth: 320 }}>{copy.corners.scanTitle}</h1>
+        <p style={{ margin: 0, fontSize: 15, color: "rgba(255,255,255,0.8)", maxWidth: 300, lineHeight: 1.45 }}>{copy.corners.scanLead}</p>
+      </div>
+    </Screen>
+  );
+}

diff --git a/web/src/screens/menu.tsx b/web/src/screens/menu.tsx
@@ -1,6 +1,6 @@
 import { AnimatePresence, motion } from "motion/react";
 import { useCallback, useEffect, useMemo, useRef, useState } from "react";
-import { useNavigate, useParams } from "react-router";
+import { Navigate, useNavigate, useParams } from "react-router";
 
 import type { MenuItem } from "@/src/data/menu";
 import { pointsForPrice } from "@/src/data/program";
@@ -12,7 +12,7 @@ import { CORNER_ITEMS, cornerById, cornerCatalog, cornerPath } from "../core/cor
 import { ITEMS_EN } from "../i18n/menu-en";
 import { haptics } from "../core/haptics";
 import { readVisit } from "../core/market";
-import { menuOnly } from "../core/mode";
+import { cornerOnly, menuOnly } from "../core/mode";
 import { visualFor } from "../core/visuals";
 import { useCopy, useLocale } from "../i18n";
 import { LivingPhoto } from "../motion/living-photo";
@@ -44,6 +44,7 @@ export function MenuScreen() {
   const visit = readVisit();
   const { corner: cornerParam } = useParams();
   const corner = cornerById(cornerParam);
+  const unknownCorner = cornerOnly && !corner;
   const cityCatalog = useCatalog();
   const catalog = useMemo(
     () =>
@@ -130,6 +131,8 @@ export function MenuScreen() {
 
   const results = useMemo(() => filterCatalog(catalog, filter), [catalog, filter]);
   const chapters = catalog.categories.filter((c) => c.id !== "extras");
+
+  if (unknownCorner) return <Navigate to="/" replace />;
 
   return (
     <Screen testId="menu" className="full">

diff --git a/web/src/core/mode.ts b/web/src/core/mode.ts
@@ -1,13 +1,18 @@
 /**
  * What this build ships.
  * `menu`: only the menu. A table QR or the link opens the book; nothing else is reachable.
+ * `corner`: only the corners. Each corner's QR opens its own book; the root shows no menu at all,
+ *   so a guest at one corner never sees another corner's prices.
  * `full`: the house account, points, orders, wallet, promos, and the menu.
- * Set in `web/.env` (`VITE_APP_MODE`); `main` ships `menu`, `loyalty` ships `full`.
+ * Set in `web/.env` (`VITE_APP_MODE`); `main` ships `menu`, `corners` ships `corner`, `loyalty` ships `full`.
  */
-export type AppMode = "menu" | "full";
+export type AppMode = "menu" | "corner" | "full";
 
 const raw = (import.meta.env.VITE_APP_MODE ?? "").toLowerCase();
 
-export const APP_MODE: AppMode = raw === "full" ? "full" : "menu";
+export const APP_MODE: AppMode = raw === "full" ? "full" : raw === "corner" ? "corner" : "menu";
 
-export const menuOnly = APP_MODE === "menu";
+/** No account, no orders: the menu-only and corner-only builds. */
+export const menuOnly = APP_MODE !== "full";
+
+export const cornerOnly = APP_MODE === "corner";

diff --git a/src/i18n/strings.ts b/src/i18n/strings.ts
@@ -431,13 +431,10 @@ export const copy = {
 
   corners: {
     kicker: "Corner",
-    title: "Los corners",
-    lead: "Las barras Libertario dentro de otras casas. Cada una tiene su carta.",
-    at: (company: string) => `En ${company}`,
-    open: "Ver la carta",
+    scanTitle: "Escanea el código de tu corner",
+    scanLead: "Cada corner tiene su propia carta. El código está en la barra.",
     provisional: "Carta provisional. Los precios y las piezas de este corner están por confirmar.",
-    notFound: "Ese corner no está en la lista.",
-    all: "Todos los corners",
+    notFound: "Ese corner no existe. Revisa el código de la barra.",
   },
 
   months: [

diff --git a/web/src/i18n/en.ts b/web/src/i18n/en.ts
@@ -336,13 +336,10 @@ export const en: CopyOverride = {
 
   corners: {
     kicker: "Corner",
-    title: "The corners",
-    lead: "Libertario bars inside other houses. Each one has its own menu.",
-    at: (company: string) => `At ${company}`,
-    open: "See the menu",
+    scanTitle: "Scan your corner's code",
+    scanLead: "Each corner has its own menu. The code is at the bar.",
     provisional: "Provisional menu. Prices and items for this corner are still to be confirmed.",
-    notFound: "That corner is not on the list.",
-    all: "All corners",
+    notFound: "That corner does not exist. Check the code at the bar.",
   },
 
   settings: {

diff --git a/web/README.md b/web/README.md
@@ -106,6 +106,7 @@ El script de Google Identity Services se carga bajo demanda (`core/google.ts`). 
 La app lee `VITE_APP_MODE` de `web/.env` (`core/mode.ts`):
 
 - `menu`: solo la carta. El QR o el enlace abren el libro en `/` (con `?sede=`, `?mesa=`, `?ciudad=`, `?lang=`), la ficha de cada producto se abre y se vuelve; no hay barra inferior, cuenta, pedido ni saldo. Es lo que se lanza primero.
+- `corner`: solo los corners (rama `corners`, sitio aparte `https://libertario-corners.pages.dev`). Cada corner se abre únicamente por su enlace `/corner/<id>` (atajo `/corner-<id>`); la raíz y cualquier otra ruta muestran "escanea el código de tu corner", sin lista de corners ni carta general, para que desde un corner no se vean los precios de otro. Los corners y sus precios están en `core/corners.ts`, tomados de la hoja "Menús corners" de operaciones; los QR en `docs/qr/corners/` y la hoja imprimible en `docs/qr/corners.html`. Deploy: `npx wrangler pages deploy dist --project-name libertario-corners --branch corners`.
 - `full`: todo: arranque, registro, Casa, promo de llegada, pedido, saldo y ajustes.
 
 Las ramas solo se diferencian en ese archivo: `main` lleva `VITE_APP_MODE=menu` y `loyalty` lleva `VITE_APP_MODE=full`. El código es el mismo, así que para liberar el resto basta con hacer merge de `loyalty` en `main` y cambiar el valor (o dejar `full`). Para probar el otro modo sin tocar el archivo: `VITE_APP_MODE=menu npm run dev`.
